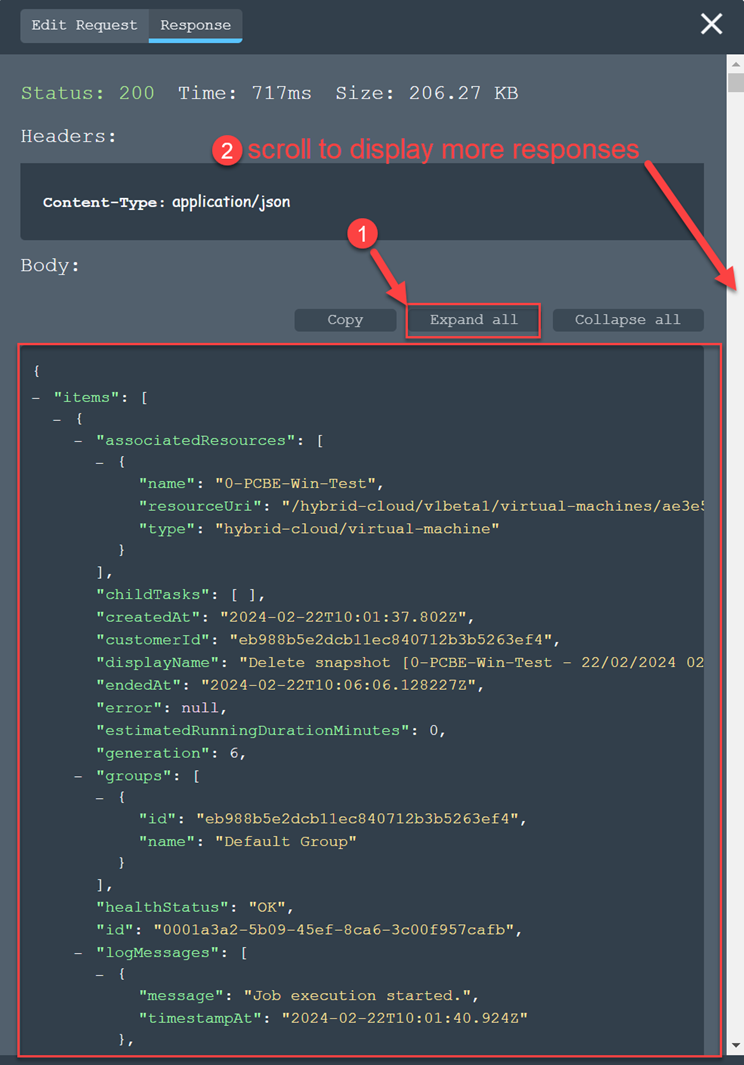
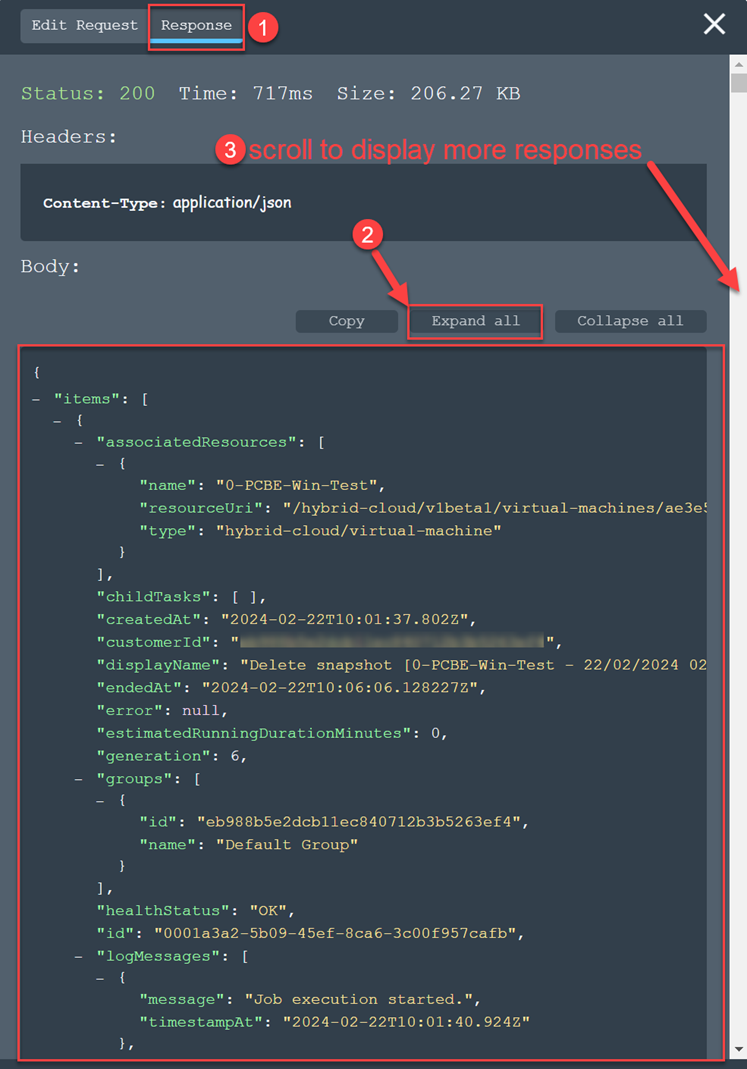
Update Blog “getting-started-with-hpe-greenlake-api-for-data-services”

diff --git a/content/blog/getting-started-with-hpe-greenlake-api-for-data-services.md b/content/blog/getting-started-with-hpe-greenlake-api-for-data-services.md
@@ -80,7 +80,7 @@ The responses from this resource are critical for debugging and monitoring the a
 
 The response from the execution of GET /data-services/v1beta1/async-operations is provided below.
 
-![](/img/response-from-the-tryit-test.png)
+![](/img/api-response-from-filtered-and-selected-async-response.png)
 
 The corresponding task message from the GreenLake task’s UI is shown below.
 
@@ -104,6 +104,10 @@ To alleviate this condition, the user can add the required properties to the **s
 ```json
 https://<region-baseUrl>/data-services/v1beta1/issues?select=body,lastOccuredAt,customerId,createdAt,id,resourceUri,generation,type
 ```
+
+Following the above recommendation, the following request body shows where I entered the select parameters as required above.
+
+![](/img/api-request-issue-required-select-parameters.png)
 
 The completed execution of this API is shown below.
 
